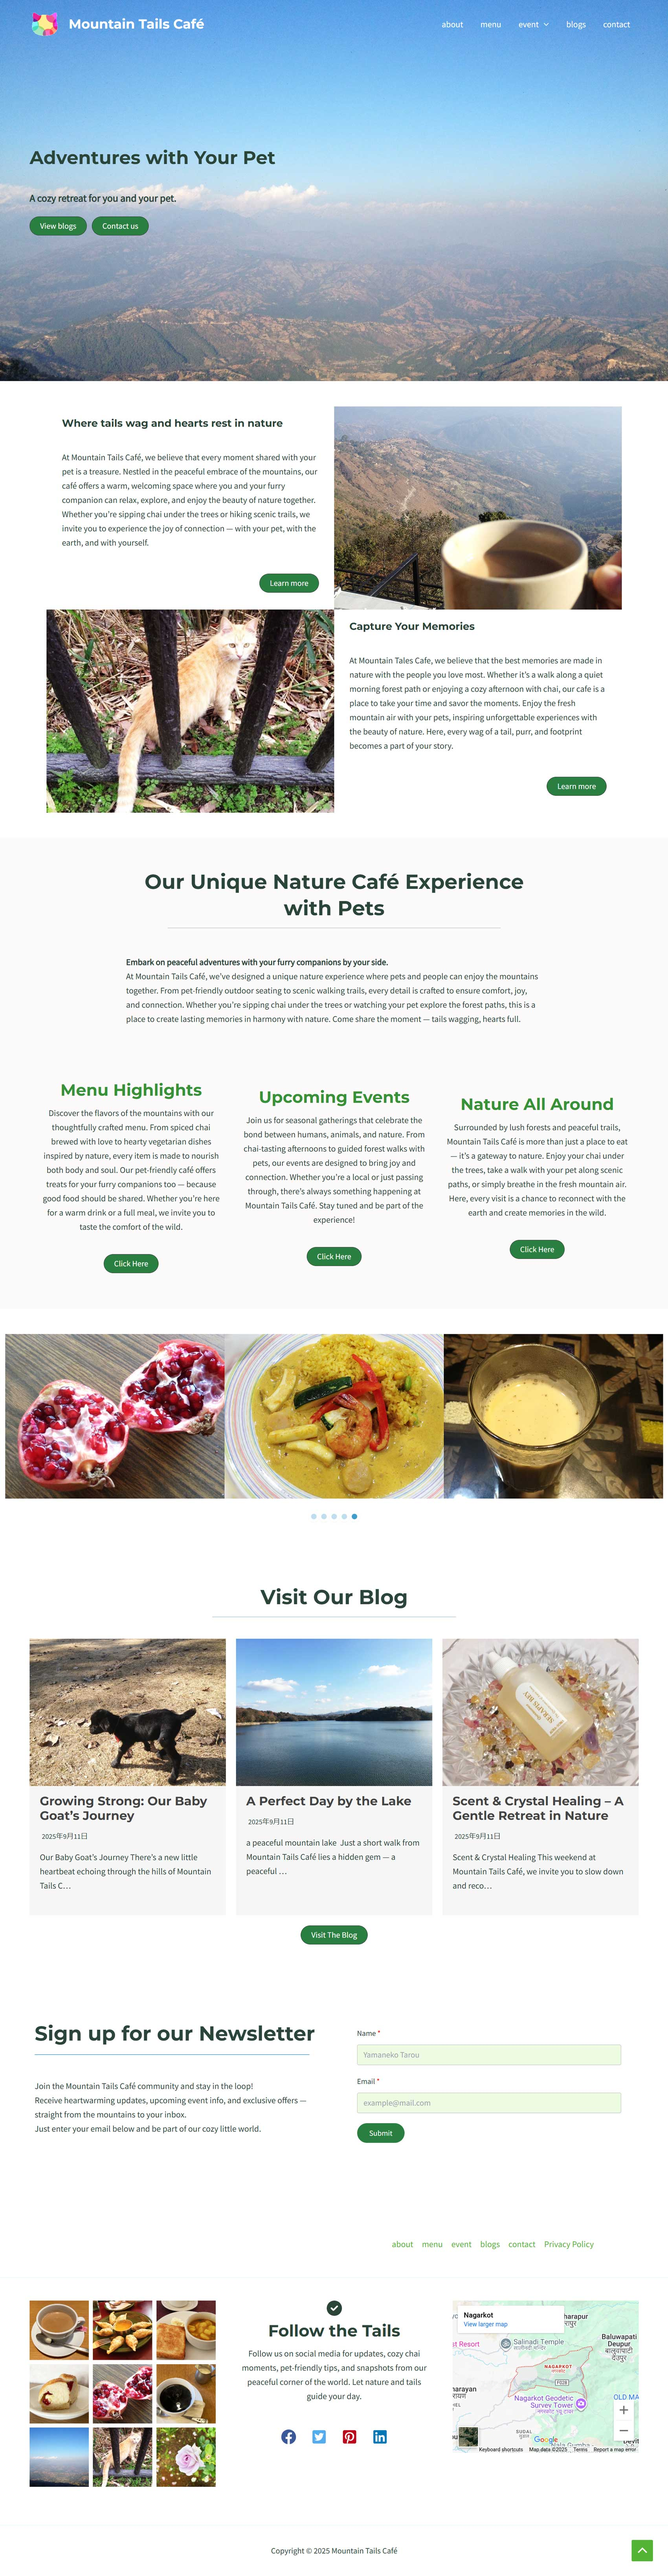
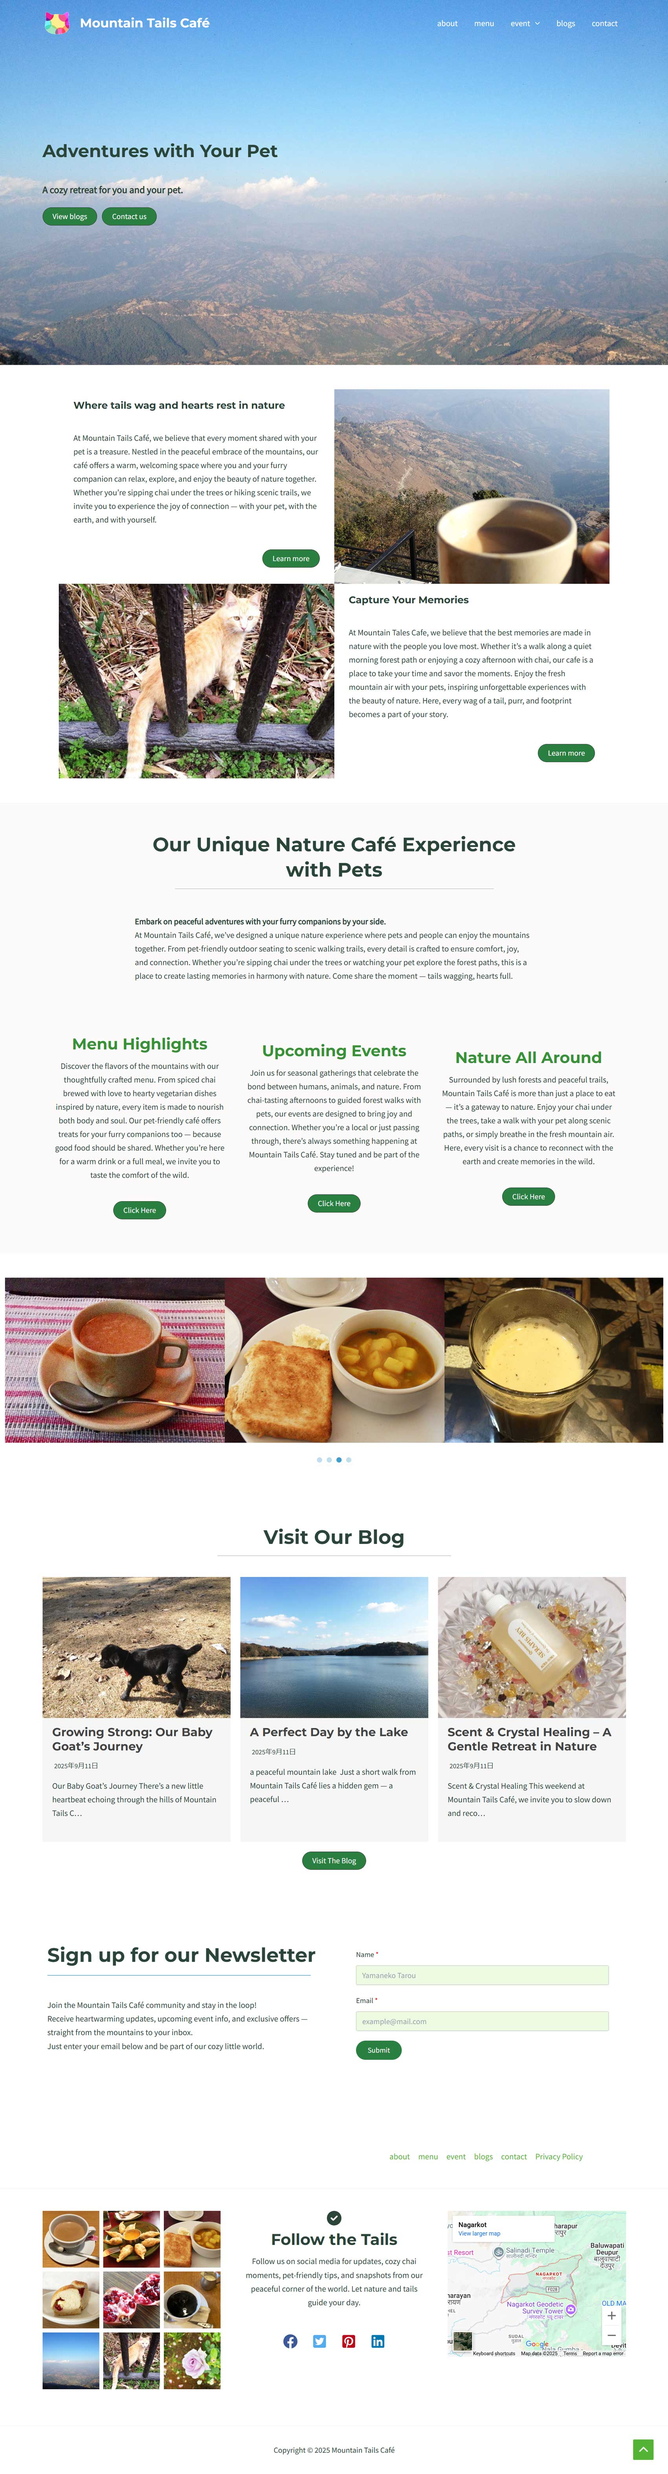
おまけ追加

diff --git a/mountain-tails-cafe.html b/mountain-tails-cafe.html
@@ -53,12 +53,13 @@
                 astra + spectraで作ったWordPressサイトです。<br>
                 ブロックエディタの使い方、サイトのデザインは
                 <a href="https://www.udemy.com/course/wordpress-for-beginners-the-complete-2019-wordpress-guide/?srsltid=AfmBOoo1im-56LOAHuvBipuovgrgFJYOSsEHyEW85Fhfvu8gNSwsKVHB" class="link-style">WordPress for Beginners: The Complete 2024 Master Class</a>
-                で学習、作成したものをカスタマイズしました。
+                で学習、作成したものをカスタマイズしました。<br>
+                サンプルテキストはCopilotを活用して作成しています。
             </p>
 
             <div class="container">
                 <div class="message">
-                    PCではスクロールしてご覧いただけます ↓
+                    PCではスクロールしてご覧いただけます<i class="fa fa-arrow-down arrow"></i>
                 </div>
                 <div class="large-image">
                     <img src="images/MoutainTailsCafe/home.jpg" alt="Image preview" class="fade-in">
@@ -81,6 +82,19 @@
                 </a>
                 で公開しています。<br>
                 セキュリティ面を考慮し、カスタマイズが少ないページについては、子ページを作らずシンプルな構成にしています。
+            </div>
+
+            <div class="omake">
+                <p>
+                おまけ : 
+                photoshop retouch
+                </p>
+                <div class="retouch">
+                    <img src="images/MoutainTailsCafe/img-before.jpg" alt="加工前">
+                    <div class="arrow"></div>
+                    <img src="images/MoutainTailsCafe/img-after.jpg" alt="加工後">
+                </div>
+                写真は主にネパールにて。
             </div>
         </div>
         

diff --git a/css/style.css b/css/style.css
@@ -387,6 +387,11 @@ footer {
     text-align: right;
 }
 
+.mountain-tails-cafe .message .arrow {
+    margin-left: 5px;
+    color: var(--base);
+}
+
 .mountain-tails-cafe .large-image {
     width: 600px;
     height: 400px;
@@ -479,6 +484,69 @@ footer {
 
 .mountain-tails-cafe .small-images .contact {
     background-image: url(../images/MoutainTailsCafe/thumbnail-contact.jpg);
+}
+
+.mountain-tails-cafe .omake {
+    margin-top: 80px;
+}
+
+.mountain-tails-cafe .retouch {
+    display: flex;
+}
+
+.mountain-tails-cafe .retouch img {
+    width: 300px;
+    padding-bottom: 15px;
+}
+
+.mountain-tails-cafe .retouch img:first-child {
+    padding-right: 15px;
+}
+
+.mountain-tails-cafe .retouch img:last-child {
+    padding-left: 15px;
+}
+
+.mountain-tails-cafe .retouch .arrow {
+    display: flex;
+    align-items: center;
+}
+
+.mountain-tails-cafe .retouch .arrow::before {   
+    font-family: "Font Awesome 6 Free";
+    font-weight: 900;
+    content: "\f061";
+    color: var(--base);
+}
+
+@media screen and (max-width: 750px) {
+    .mountain-tails-cafe .retouch {
+        display: block;
+    }
+
+    .mountain-tails-cafe .retouch img {
+        display: block;
+    }
+
+    .mountain-tails-cafe .retouch img:first-child {
+        padding-right: 0;
+        padding-bottom: 5px;
+    }
+
+    .mountain-tails-cafe .retouch img:last-child {
+        padding-left: 0;
+        padding-top: 5px;
+    }
+
+    .mountain-tails-cafe .retouch .arrow {
+        width: 300px;
+        display: flex;
+        justify-content: center;
+    }
+
+    .mountain-tails-cafe .retouch .arrow::before {
+        content: "\f063";
+    }
 }
 
 .go-to-home {
